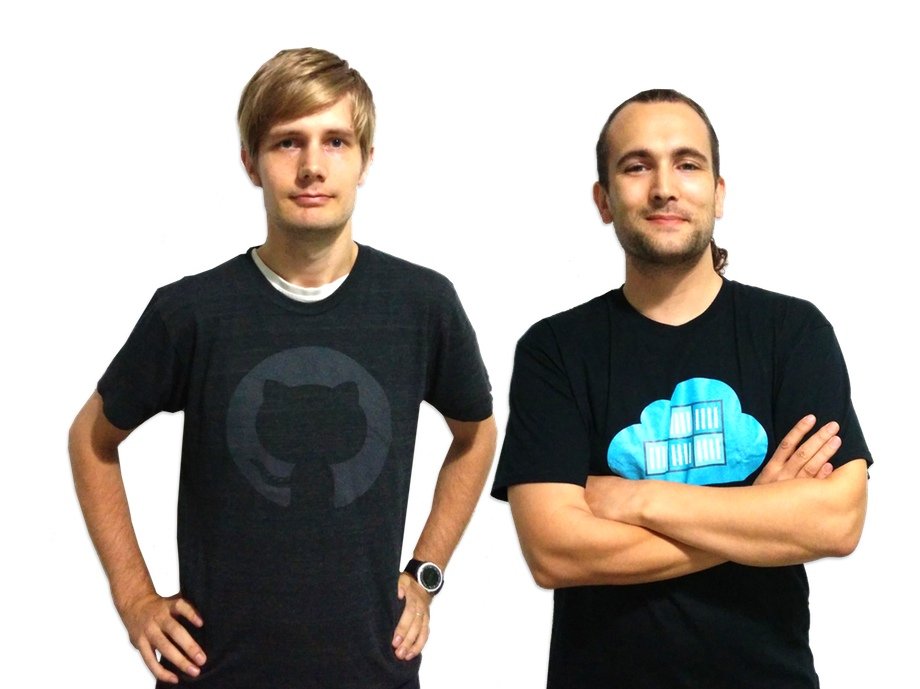
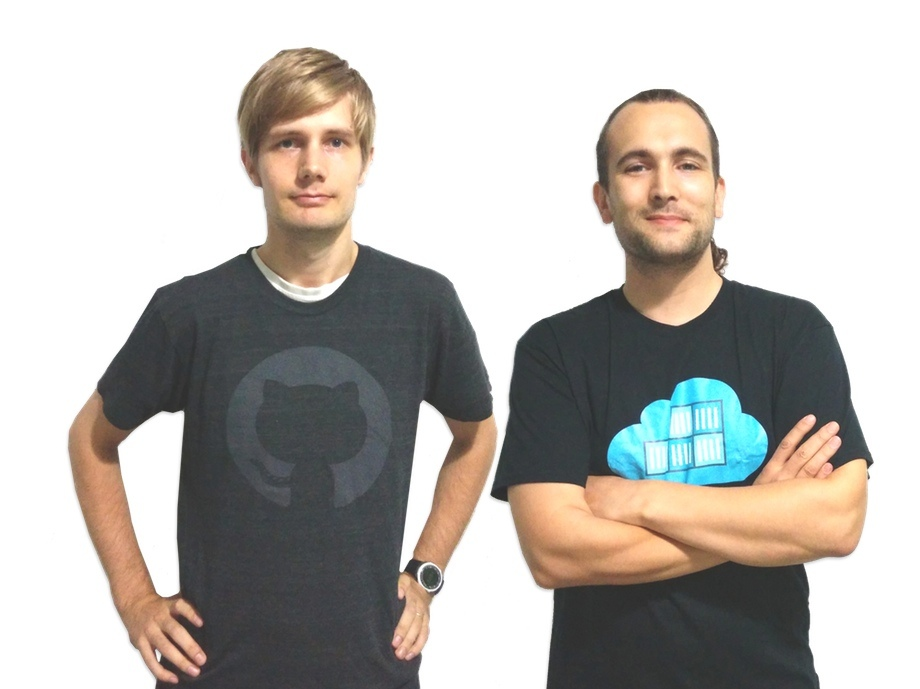
Clearing up staff picture

diff --git a/assets/scss/style.scss b/assets/scss/style.scss
@@ -13,6 +13,12 @@ $width: 1040px;
 $body: 720px;
 $code: 'Lucida Sans Typewriter', 'Lucida Console', Monaco, 'Bitstream Vera Sans Mono', monospace;
 
+/* Grayscale fix (see https://github.com/sass/libsass/issues/151#issuecomment-33536506) */
+
+@function grayscale($value) {
+  @return #{ "grayscale(" + $value + ")" };
+}
+
 /* General */
 
 body {

diff --git a/assets/css/style.css b/assets/css/style.css
@@ -1217,6 +1217,7 @@ table {
         border-top-color: #bbbec0; }
 
 /* Variables */
+/* Grayscale fix (see https://github.com/sass/libsass/issues/151#issuecomment-33536506) */
 /* General */
 body {
   line-height: 160%;

diff --git a/public/assets/styles.css b/public/assets/styles.css
@@ -1343,6 +1343,7 @@ table {
         border-top-color: #bbbec0; }
 
 /* Variables */
+/* Grayscale fix (see https://github.com/sass/libsass/issues/151#issuecomment-33536506) */
 /* General */
 body {
   line-height: 160%;

diff --git a/source/features.html b/source/features.html
@@ -4,8 +4,6 @@ template: default.html
 draft: true
 ---
 
-
-
 <section id='main' class='features'>
   <div class='wrapper'>
     <header class='header'>
